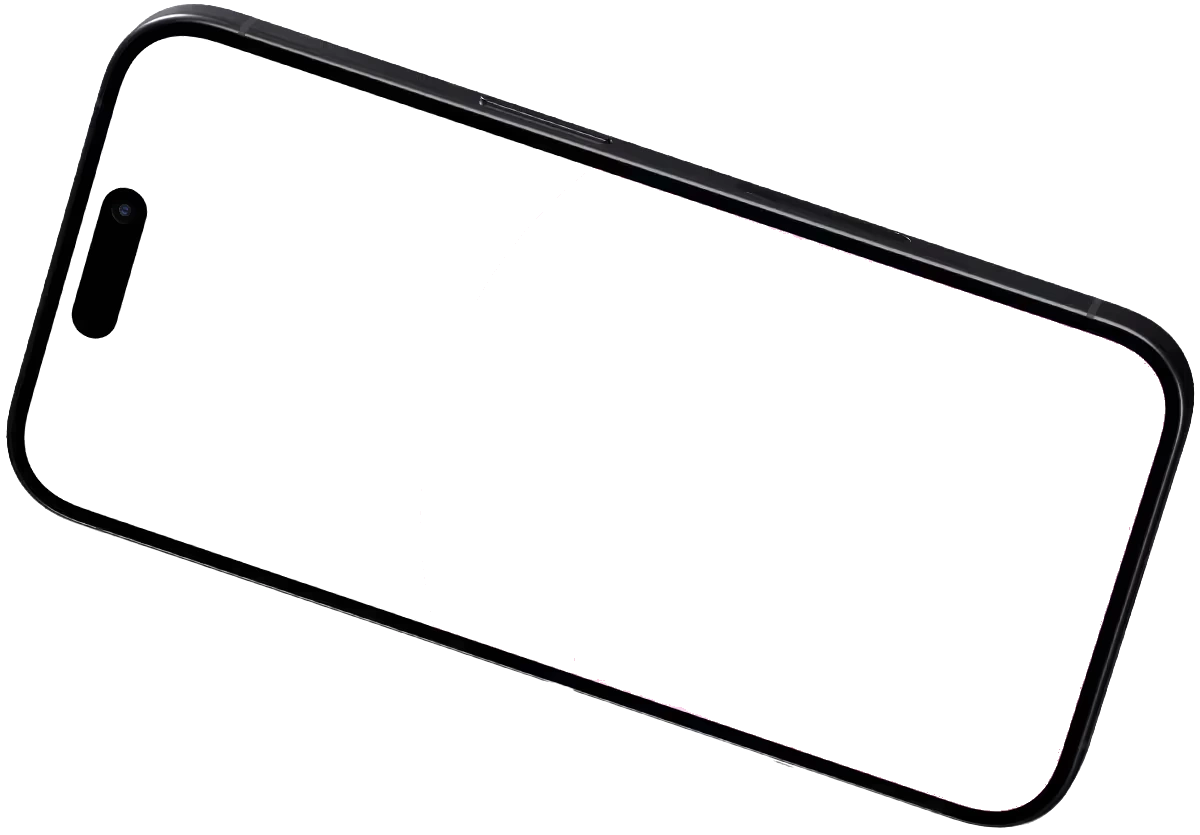
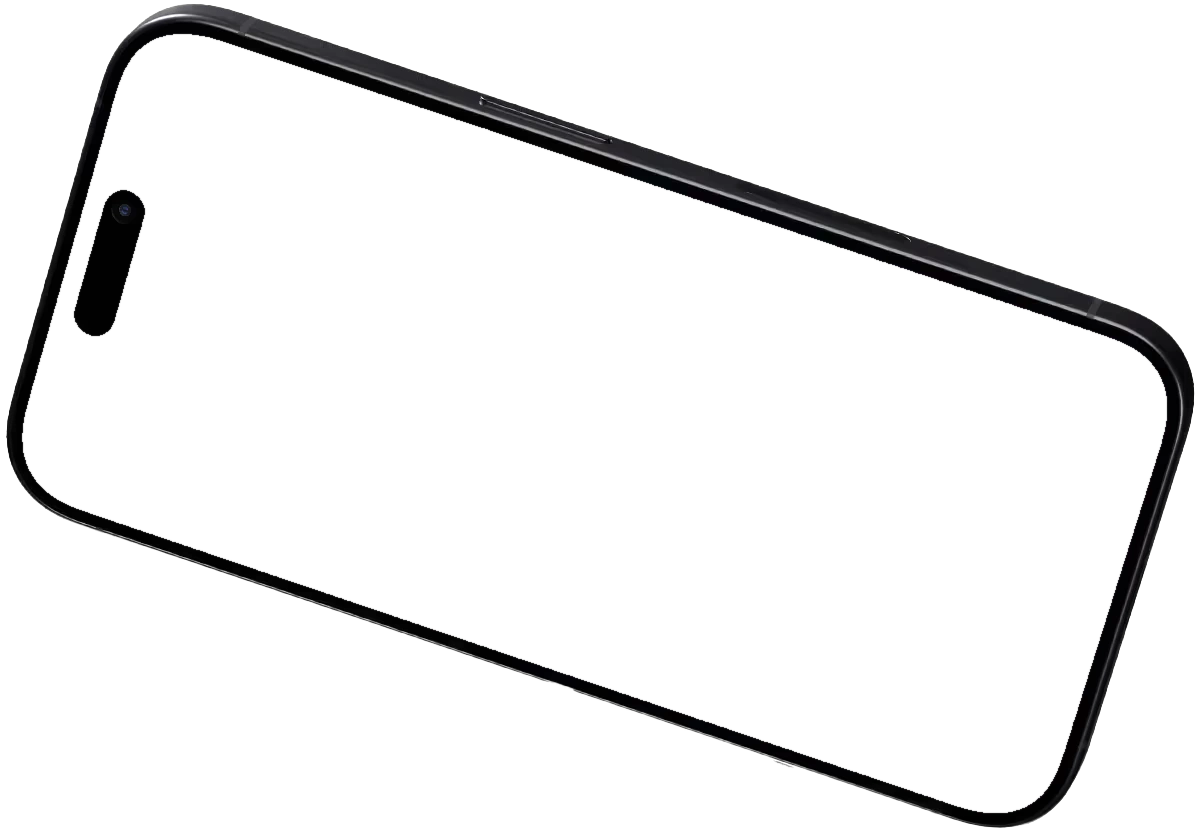
Remove matte fringes from PangoLand phone showcase

diff --git a/pangoland/index.html b/pangoland/index.html
@@ -154,7 +154,7 @@
               aria-label="Open a larger preview of Pango Land gameplay"
             >
               <img
-                src="./assets/phone-frame-composed.webp"
+                src="./assets/phone-showcase-clean.webp"
                 alt="Pango Land's colorful café inside a landscape phone, with characters and vocabulary to discover"
                 width="1200"
                 height="835"
